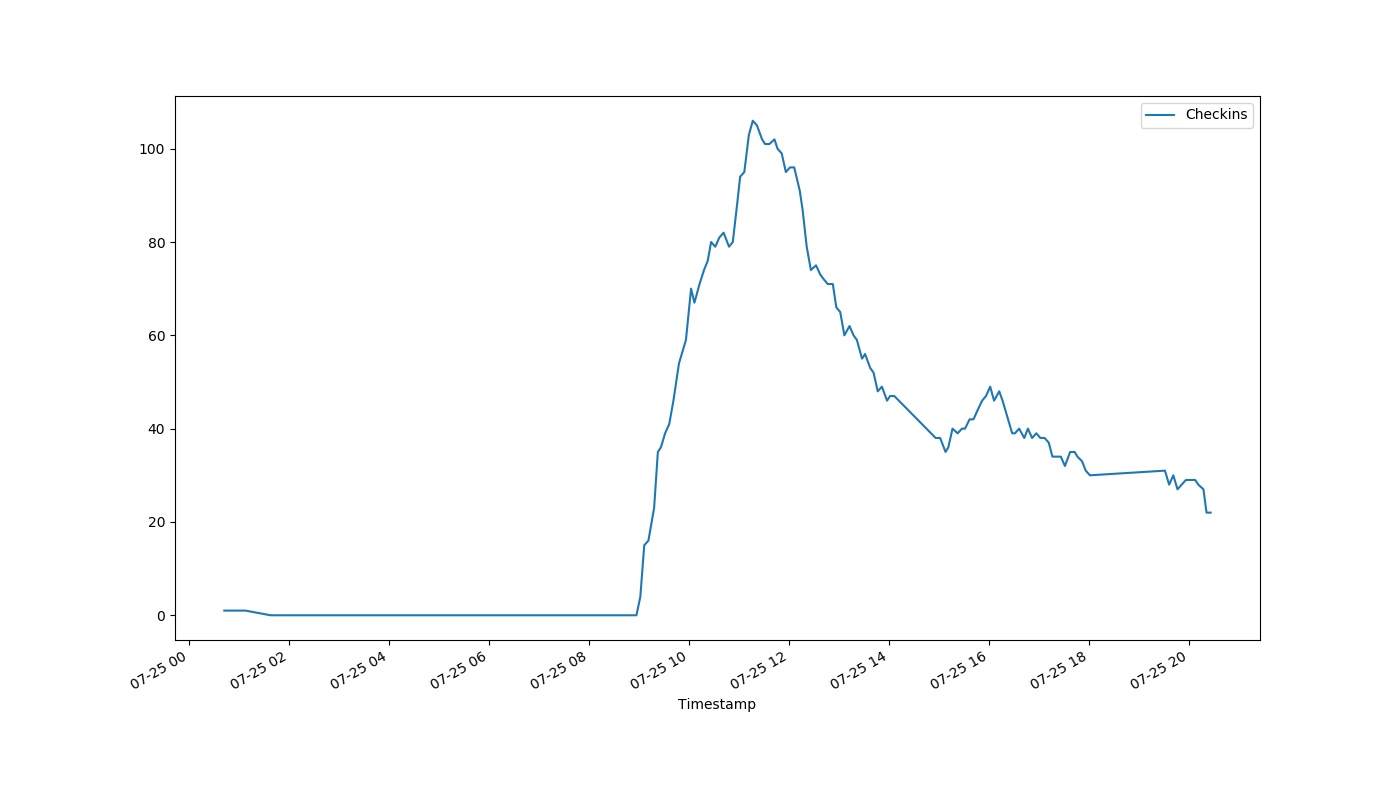
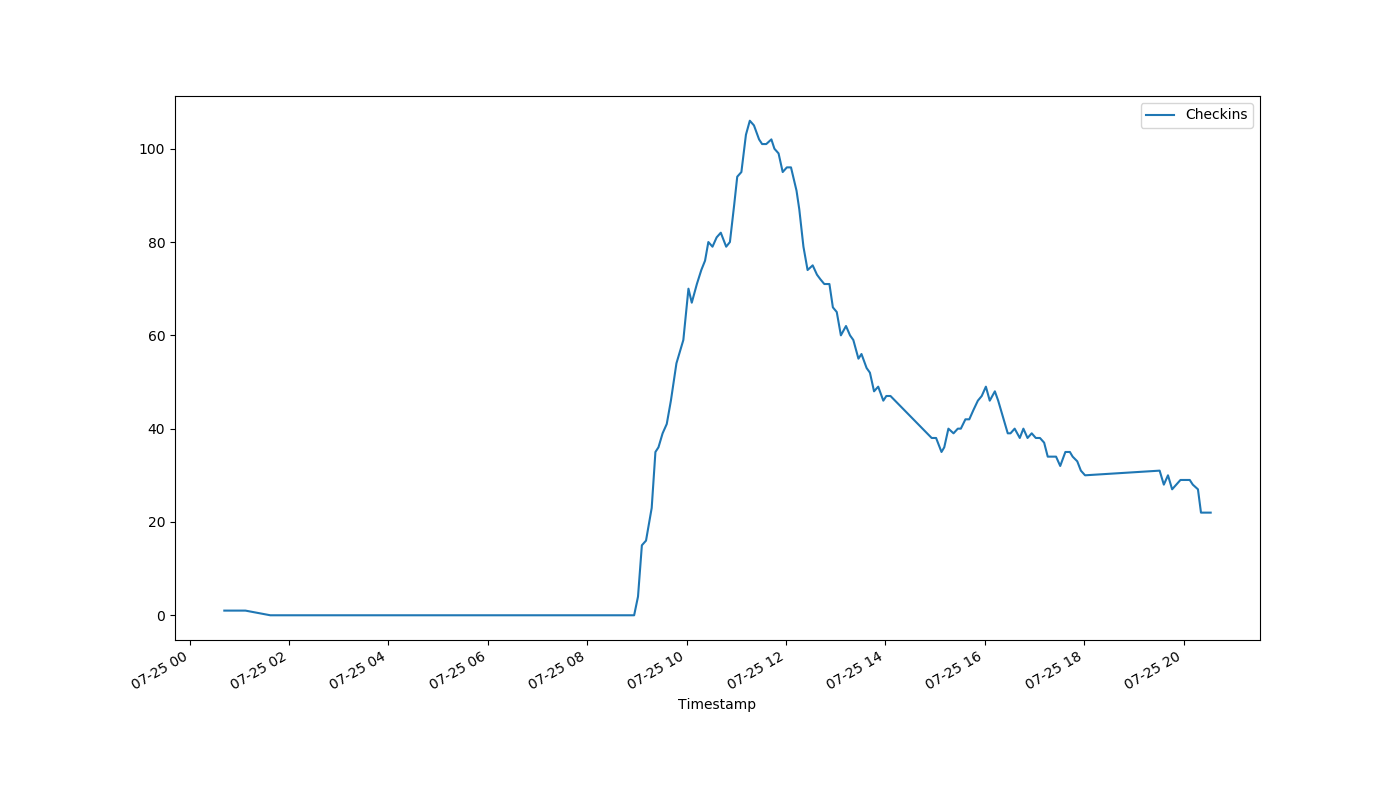
auto-Jul-25-20:34:01

diff --git a/index.html b/index.html
@@ -1,1 +1,1 @@
-<!DOCTYPE html><html><head><meta http-equiv="refresh" content="30"><link rel='stylesheet' href='holmcurrent.css'></head><body><p id='count'>-1</p><div id='graph-wrap'><img id='graph' src='holmgraph-Jul-25.png'></div><p id='updated'>Last updated 20:32:07 / 20:31:23</p></body></html>
+<!DOCTYPE html><html><head><meta http-equiv="refresh" content="30"><link rel='stylesheet' href='holmcurrent.css'></head><body><p id='count'>22</p><div id='graph-wrap'><img id='graph' src='holmgraph-Jul-25.png'></div><p id='updated'>Last updated 20:33:08 / 20:32:44</p></body></html>
